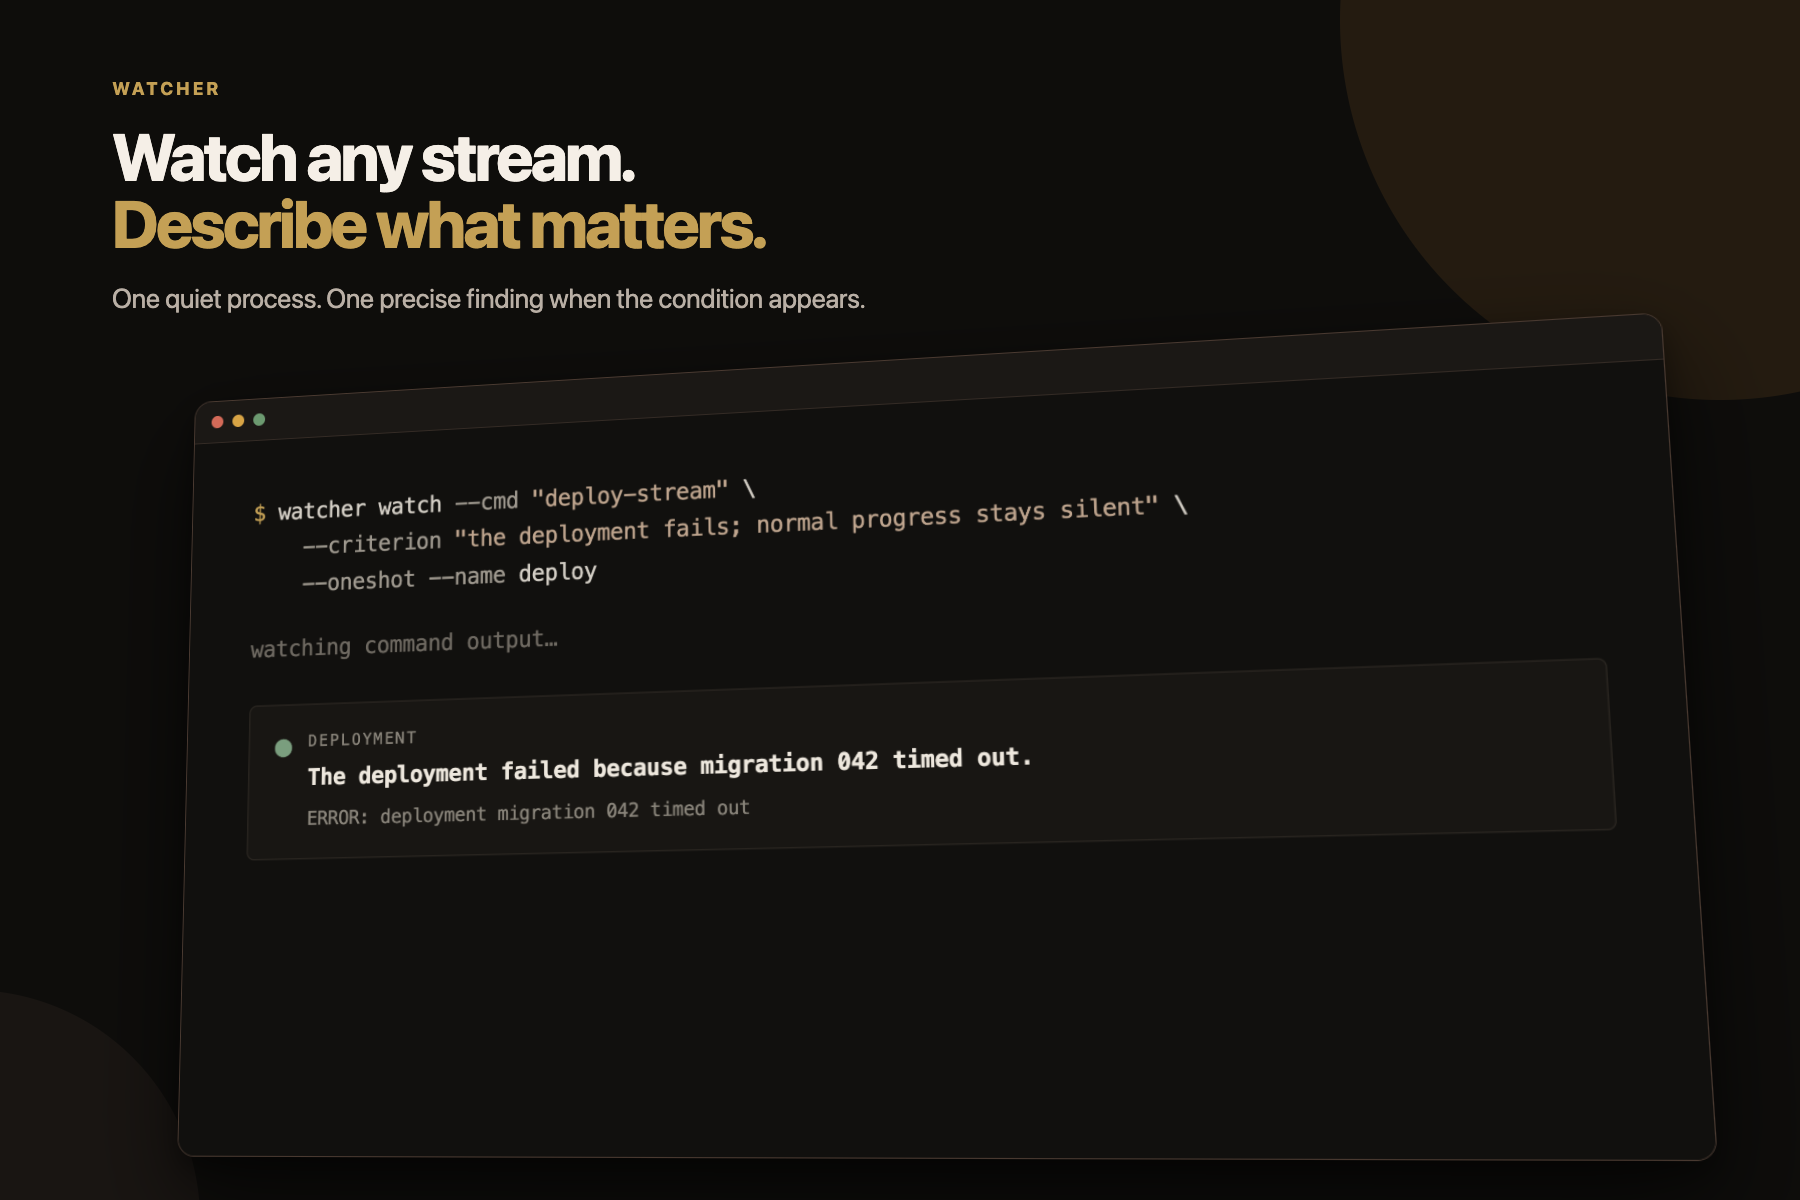
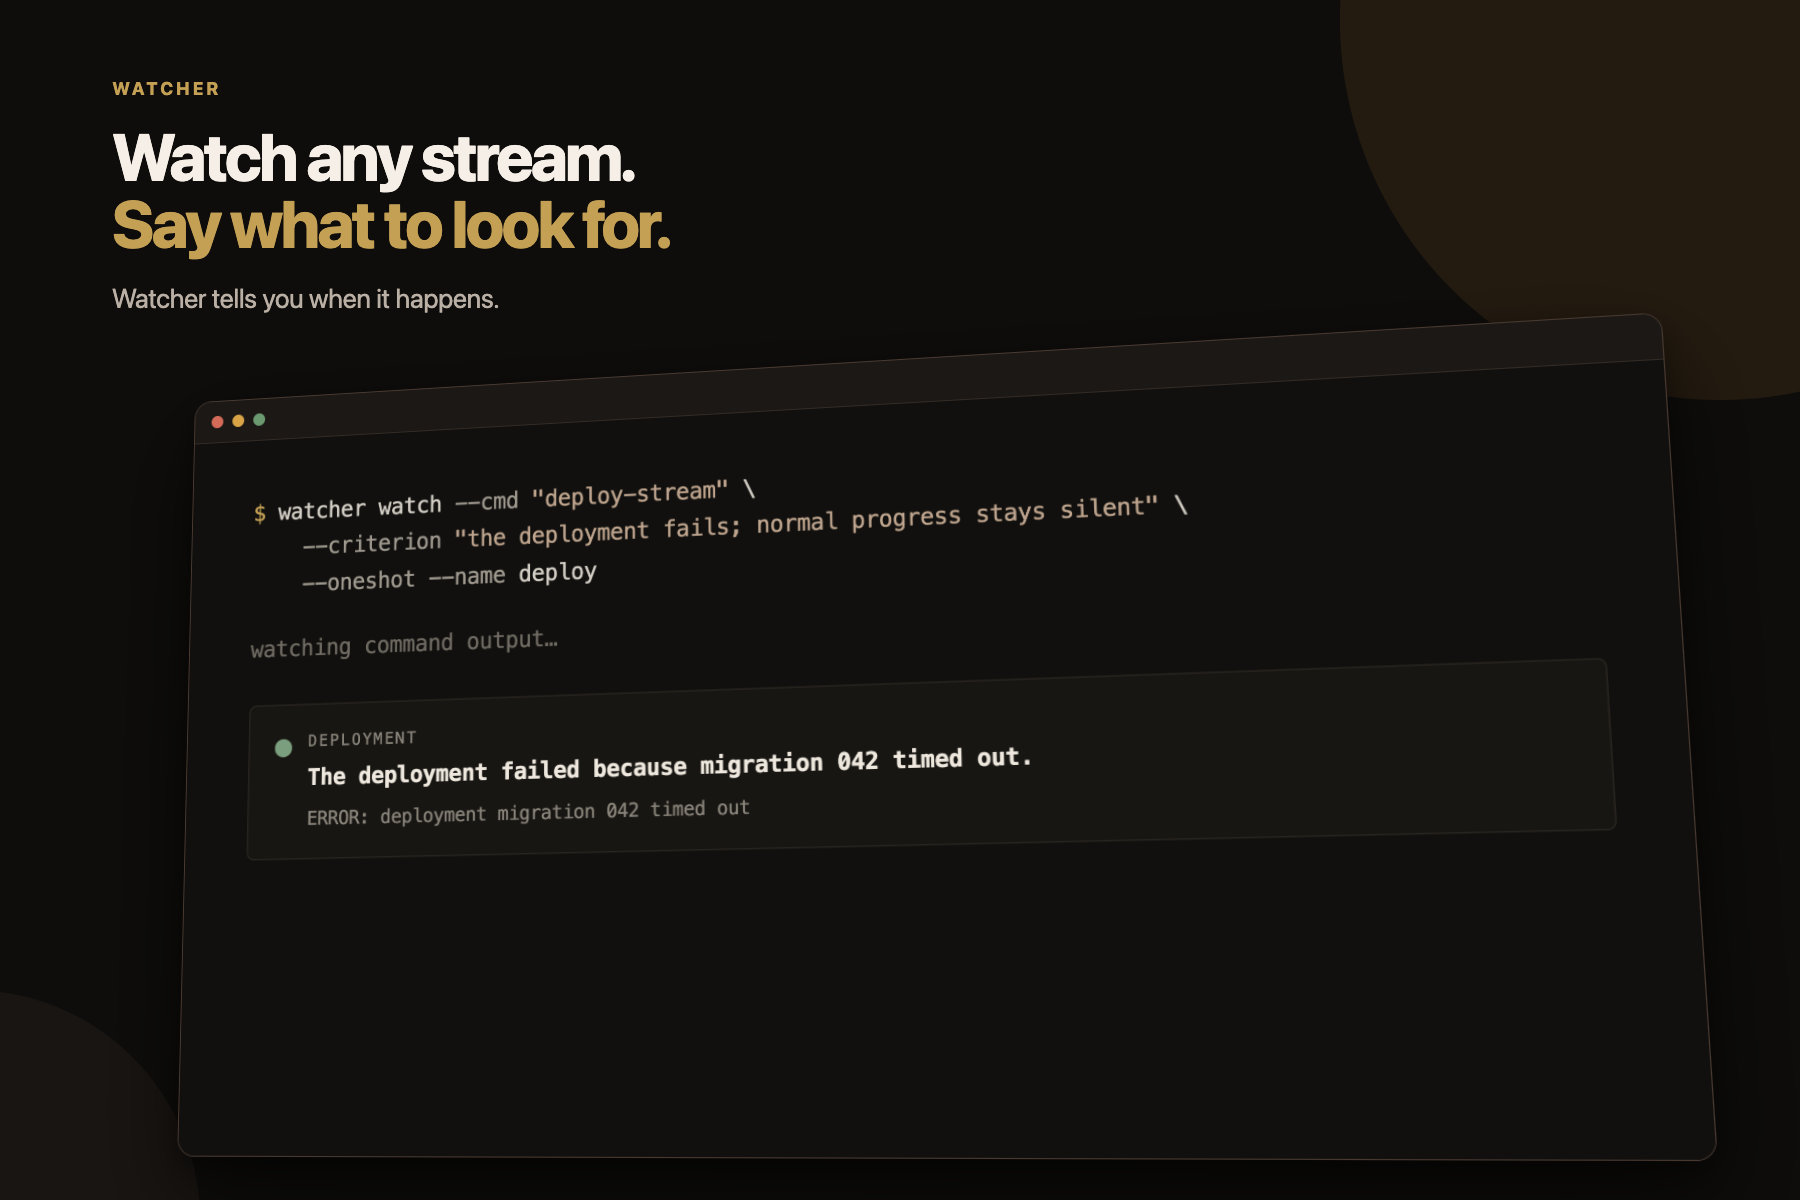
Simplify Watcher README language

Changed region(s): [[0.0622, 0.1542, 0.4356, 0.2158], [0.0622, 0.2467, 0.4667, 0.2775]]

diff --git a/README.md b/README.md
@@ -5,20 +5,17 @@
 <h1 align="center">Watcher</h1>
 
 <p align="center">
-  Watch any stream. Describe what matters. Stay quiet until it happens.
+  Watch text. Say what to look for. Get an alert when it happens.
 </p>
 
-Watcher is one small building block: **a stream plus a condition in plain words
-becomes an event.**
+Watcher does three things:
 
-It reads a file, a command's output, or standard input. An LLM checks your
-condition. When the condition is true, Watcher emits a finding, sends a
-notification, or runs a verified action.
+1. Read text from a file, command, or standard input.
+2. Check for something you described in plain English.
+3. Print a result, show an alert, or run a command when it happens.
 
-That one idea covers many jobs. The stream can be logs, prices, a sensor feed,
-an inbox, or any text. The condition is a sentence, not a regex. So the same
-tool can watch a deploy, flag a bad number, or wait for one specific event —
-without new code each time.
+Use it to watch logs, wait for a build, check prices, follow a sensor, or monitor
+an inbox. The text and the condition change. Watcher stays the same.
 
 ## Install
 
@@ -48,9 +45,5 @@ watcher service install
 watcher status
 ```
 
-The daemon keeps offsets, context, findings, and budgets under `~/.watcher/`.
-It follows registry changes automatically and survives restarts.
-
-Watcher supports OpenAI-compatible models, JSON findings, desktop
-notifications, escalation, and independently verified command actions.
-
+Watcher saves its place and starts again after a restart. Edit
+`~/.watcher/watches.yaml` to add or change watches.
